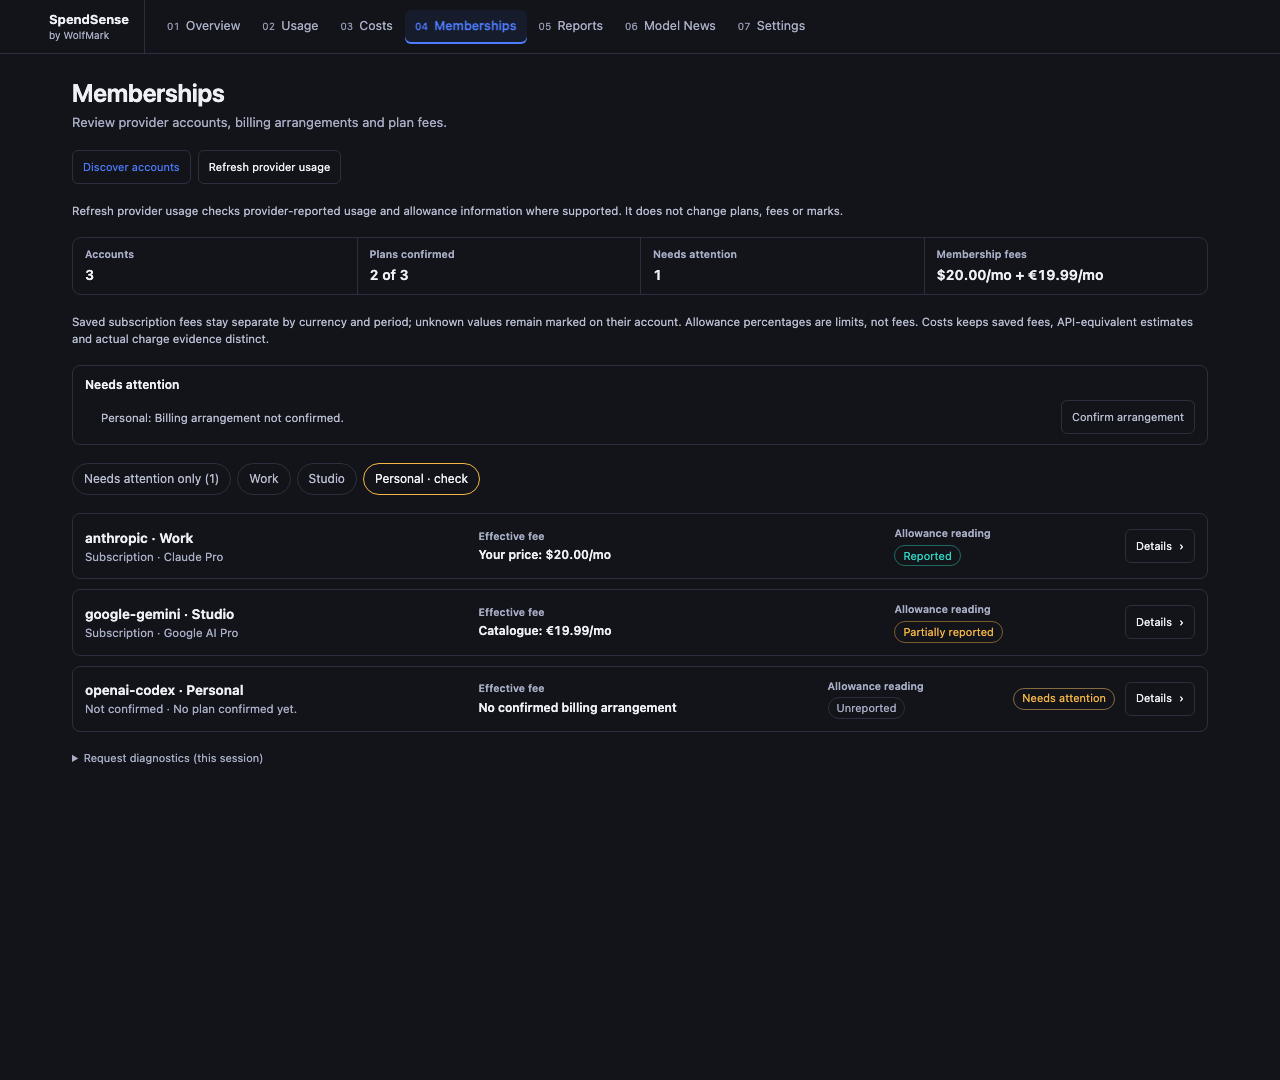
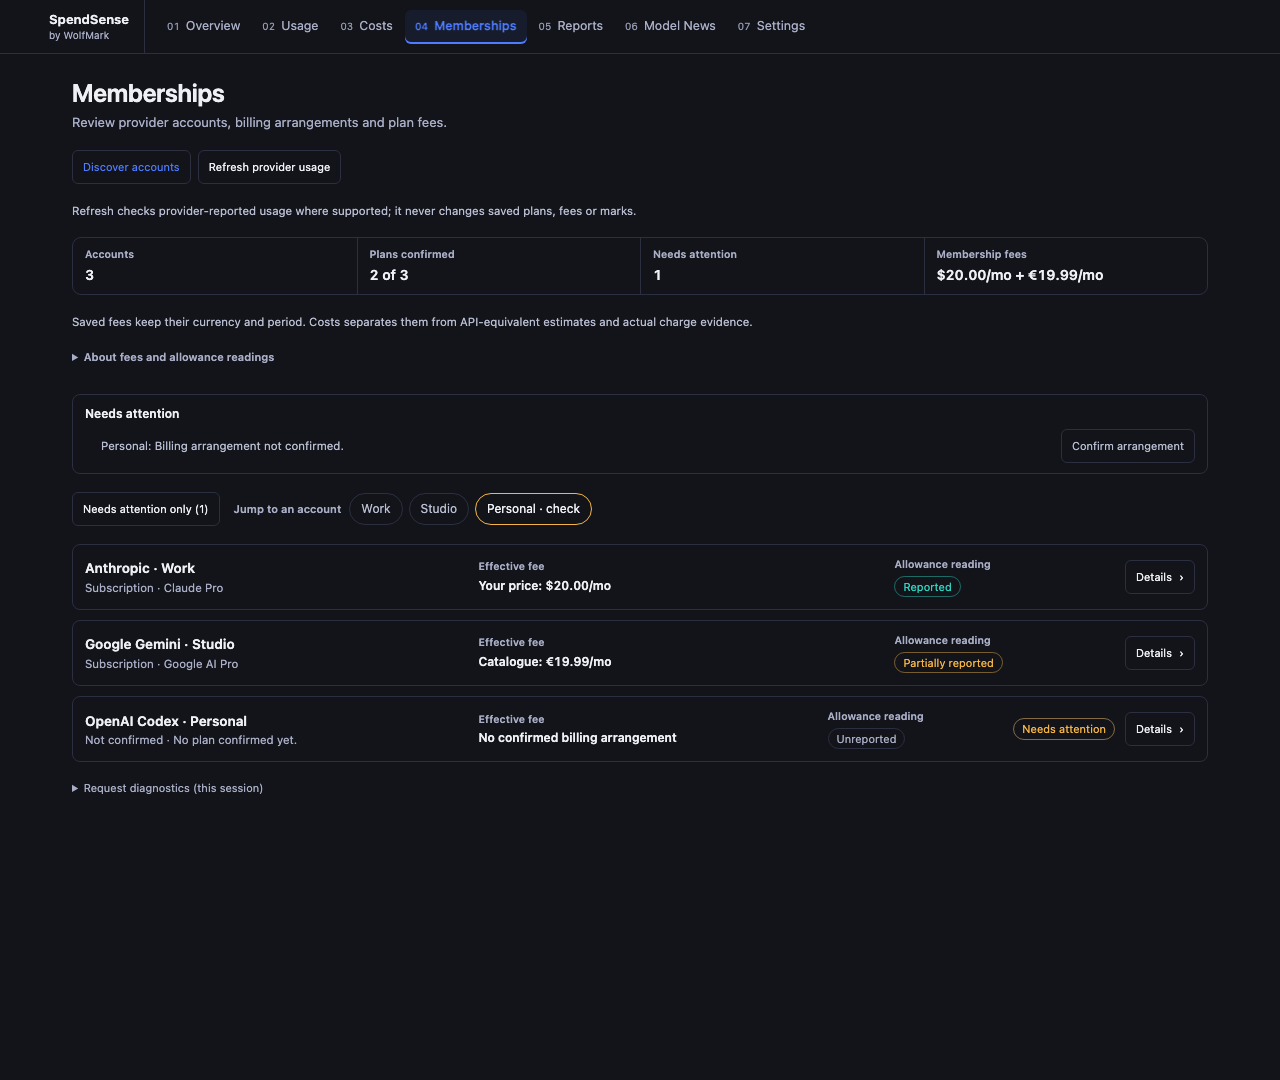
Address Memberships review refinements

diff --git a/desktop/plugin.js b/desktop/plugin.js
@@ -5295,6 +5295,9 @@ const MEMBERSHIP_CSS = `
 .wm-chip[data-state="manual"]{color:var(--ui-accent);border-color:color-mix(in srgb,var(--ui-accent) 45%,transparent)}
 .wm-chip[data-state="stale"],.wm-chip[data-state="no_data"]{color:var(--ui-text-tertiary)}
 .wm-note{margin:0;font-size:11.5px;line-height:1.5;color:var(--ui-text-secondary)}
+.wm-membership-explainer{padding:1px 0}
+.wm-membership-explainer>summary{width:fit-content;min-height:26px;display:list-item;cursor:pointer;font-weight:600}
+.wm-membership-explainer>p{margin:4px 0 0;max-width:82ch}
 .wm-accent-note{color:var(--ui-accent)}
 .wm-warn-note{color:var(--ui-warning)}
 .wm-fee-row{display:flex;align-items:center;justify-content:space-between;gap:10px;flex-wrap:wrap;
@@ -5341,6 +5344,11 @@ const MEMBERSHIP_CSS = `
 .wm-membership-summary dt,.wm-row-fact dt{font-size:10.5px;font-weight:600;color:var(--ui-text-tertiary)}
 .wm-membership-summary dd,.wm-row-fact dd{margin:0;min-width:0}
 .wm-membership-summary dd{font-size:14px;line-height:1.35;font-weight:600;color:var(--ui-text-primary);font-variant-numeric:tabular-nums;overflow-wrap:anywhere}
+.wm-memberships nav.wm-account-jump.wm-membership-account-nav{display:grid;grid-template-columns:max-content minmax(0,1fr);gap:10px 14px;align-items:center}
+.wm-membership-shortcuts{display:grid;grid-template-columns:max-content minmax(0,1fr);gap:8px;align-items:center;min-width:0}
+.wm-account-nav-label{font-size:11px;font-weight:600;color:var(--ui-text-tertiary)}
+.wm-membership-account-chips{display:flex;gap:6px;flex-wrap:wrap;min-width:0}
+.wm-membership-account-chips .wm-account-chip{max-width:100%;overflow-wrap:anywhere}
 @container(max-width:620px){.wm-membership-summary{grid-template-columns:repeat(2,minmax(0,1fr))}.wm-membership-summary>div:nth-child(odd){border-left:0}.wm-membership-summary>div:nth-child(n+3){border-top:1px solid var(--ui-stroke-secondary)}}
 @container(max-width:340px){.wm-membership-summary{grid-template-columns:minmax(0,1fr)}.wm-membership-summary>div{border-left:0;border-top:1px solid var(--ui-stroke-secondary)}.wm-membership-summary>div:first-child{border-top:0}}
 .wm-memberships .wm-cards{display:grid;grid-template-columns:minmax(0,1fr);gap:10px}
@@ -5368,6 +5376,7 @@ button[aria-expanded="true"] .wm-chev{transform:rotate(90deg)}
 .wm-group-body{display:grid;gap:8px;padding:4px 0 10px}
 @container(max-width:760px){.wm-row-head{grid-template-columns:minmax(0,1fr)}.wm-row-mid{grid-template-columns:minmax(0,1.35fr) minmax(92px,.7fr) auto auto}}
 @container(max-width:620px){.wm-row-head{align-items:start}.wm-row-mid{grid-template-columns:minmax(0,1fr) minmax(92px,auto);gap:8px 12px}.wm-row-state{grid-column:1}.wm-row-actions{grid-column:2;grid-row:2;align-self:center}.wm-row-actions .wm-button{min-height:38px}.wm-memberships .wm-seg button{min-height:38px}.wm-memberships .wm-attention li{flex-wrap:wrap}.wm-memberships .wm-attention li .wm-button{width:100%}}
+@container(max-width:620px){.wm-memberships nav.wm-account-jump.wm-membership-account-nav{grid-template-columns:minmax(0,1fr);align-items:start}.wm-membership-shortcuts{grid-template-columns:minmax(0,1fr);gap:6px}}
 @container(max-width:340px){.wm-row-mid{grid-template-columns:minmax(0,1fr)}.wm-row-state,.wm-row-actions{grid-column:1;grid-row:auto}.wm-row-actions,.wm-row-actions .wm-button{width:100%}}
 `
 
@@ -5603,7 +5612,7 @@ function quotaRows(account, now = Date.now(), t = needsAttentionEn) {
     return {
       id: window.id, label: isAccountMark ? t('memScopeAccount') : (window.label || window.id),
       scope: window.scope || 'account', accountMark: isAccountMark,
-      reading, source, reset, state, conflict: !!window.conflict,
+      reading, source, reset, state, basis: bases, conflict: !!window.conflict,
       manual: window.manual || null,
       stateLabel: state === 'live' ? t('memQuotaLive') : state === 'stale' ? t('memQuotaStale') : state === 'manual' ? t('memQuotaManual') : t('memQuotaUnrecorded')
     }
@@ -5612,7 +5621,8 @@ function quotaRows(account, now = Date.now(), t = needsAttentionEn) {
 
 function membershipReadingStatus(rows, t = needsAttentionEn) {
   const items = Array.isArray(rows) ? rows : []
-  const reported = items.filter(row => row.state === 'live' || row.state === 'stale')
+  const reported = items.filter(row => row.state === 'live' || row.state === 'stale' ||
+    (Array.isArray(row.basis) && row.basis.includes('provider_reported')))
   if (!reported.length) {
     return items.some(row => row.state === 'manual')
       ? { state: 'manual', label: t('memAllowanceManual') }
@@ -5623,6 +5633,9 @@ function membershipReadingStatus(rows, t = needsAttentionEn) {
   }
   if (reported.length < items.length) {
     return { state: 'partial', label: t('memAllowancePartial') }
+  }
+  if (items.some(row => row.state === 'manual')) {
+    return { state: 'manual', label: t('memAllowanceManual') }
   }
   return { state: 'reported', label: t('memAllowanceReported') }
 }
@@ -6216,6 +6229,24 @@ function arrangementLabel(arrangement, t) {
     : arrangement === 'prepaid' ? t('memArrPrepaid')
     : arrangement === 'api_only' ? t('memArrMetered') : t('memArrUnconfirmed')
 }
+const MEMBERSHIP_PROVIDER_LABEL_KEYS = {
+  anthropic: 'memProviderAnthropic',
+  'google-gemini': 'memProviderGoogleGemini',
+  'openai-codex': 'memProviderOpenAICodex'
+}
+function membershipProviderLabel(family, t = needsAttentionEn) {
+  const key = MEMBERSHIP_PROVIDER_LABEL_KEYS[family]
+  return key ? t(key) : family || ''
+}
+function membershipIdentityLabel(account, t = needsAttentionEn) {
+  const provider = membershipProviderLabel(account?.family, t)
+  return account?.label && account.label !== account.family
+    ? `${provider} · ${account.label}` : provider
+}
+function membershipAccountShortcutLabel(account, t = needsAttentionEn) {
+  return account?.label && account.label !== account.family
+    ? account.label : membershipProviderLabel(account?.family, t)
+}
 function MembershipCard({ account, plans, busy, onAction, draft, saveFee, catalogue, notice, weather, weatherError, hasAttention }) {
   const t = usePluginI18n(ID)
   const identity = useValue($membershipIdentity)
@@ -6398,8 +6429,7 @@ function MembershipCard({ account, plans, busy, onAction, draft, saveFee, catalo
     $membershipExpanded.set({ origin: identity,
       ids: ids.includes(account.id) ? ids.filter(id => id !== account.id) : [...ids, account.id] })
   }
-  const identityLabel = account.label && account.label !== account.family
-    ? `${account.family} · ${account.label}` : account.family
+  const identityLabel = membershipIdentityLabel(account, t)
   // API-only and prepaid accounts need no plan, so they never show the
   // "not confirmed yet" prompt. Mirrors the arrangement skip in needsAttention.
   const planName = planSaved ? (account.plan?.name || account.plan_id)
@@ -6515,7 +6545,7 @@ function MembershipCard({ account, plans, busy, onAction, draft, saveFee, catalo
         // must not block submit before the revision check runs in saveFee().
         ? jsxs('form', { className: 'wm-fee-form', noValidate: !account.rev,
             onSubmit: event => { event.preventDefault(); saveFee() }, children: [
-            jsx('h3', { children: t('memFeeTitle', account.label || account.family) }),
+            jsx('h3', { children: t('memFeeTitle', membershipAccountShortcutLabel(account, t)) }),
             notice?.tone === 'warn' && notice.accountId === account.id ? jsx('p', { role: 'alert', className: 'wm-warn-note', children: notice.text }) : null,
             jsx('p', { className: 'wm-note', children: t('memFeeRevisionNote') }),
             jsxs('fieldset', { disabled: !!busy, className: 'wm-controls wm-fee-fields', children: [
@@ -7033,7 +7063,7 @@ function MembershipsPage() {
           status: busy === 'refresh' ? 'pending' : 'idle', pendingLabel: t('memRefreshing'),
           onClick: refreshReadings, children: t('memRefresh') })
       ] }),
-      jsx('p', { className: 'wm-note',
+      jsx('p', { className: 'wm-note wm-membership-refresh-note',
         children: t('memRefreshNote') }),
       notice ? jsx('div', { className: 'wm-alert', 'data-tone': notice.tone === 'warn' ? 'warn' : 'good',
         role: 'status', children: notice.text }) : null,
@@ -7052,18 +7082,22 @@ function MembershipsPage() {
           jsxs('div', { children: [jsx('dt', { children: t('memPlansConfirmed') }),
             jsx('dd', { children: summaryValue(t('memPlansOf', summary.withPlan, summary.total)) })] }),
           jsxs('div', { children: [jsx('dt', { children: t('memNeedsAttention') }),
-            jsx('dd', { children: summaryValue(String(attention.length)) })] }),
+            jsx('dd', { children: summaryValue(String(attentionIds.size)) })] }),
           jsxs('div', { children: [jsx('dt', { children: t('memFeesLabel') }),
             jsx('dd', { children: feeSummary })] })
         ] }),
-      jsx('p', { className: 'wm-note',
-        children: t('memFeesNote') }),
+      jsx('p', { className: 'wm-note wm-membership-fee-note',
+        children: t('memFeesNoteShort') }),
+      jsxs('details', { className: 'wm-note wm-membership-explainer', children: [
+        jsx('summary', { children: t('memFeesHelp') }),
+        jsx('p', { children: t('memFeesNote') })
+      ] }),
       attention.length
         ? jsxs('section', { className: 'wm-attention', 'aria-label': t('memNeedsAttention'), children: [
             jsx('h3', { children: t('memNeedsAttention') }),
             jsxs('ul', { children: attention.slice(0, 6).map((item, index) =>
               jsxs('li', { 'data-tone': item.tone, children: [
-                jsx('span', { children: `${item.account.label || item.account.family}: ${item.text}` }),
+                jsx('span', { children: `${membershipAccountShortcutLabel(item.account, t)}: ${item.text}` }),
                 jsx(ProductButton, { type: 'button', className: 'wm-button',
                   onClick: () => queueMembershipTarget(item),
                   children: attentionActionLabel(item.issue, t) })
@@ -7080,14 +7114,19 @@ function MembershipsPage() {
         ? jsx('div', { className: 'wm-alert', role: 'alert', children: membershipErrorText(accounts.error, 'read', t) })
         : null,
       accountsReady && list.length > 1
-        ? jsxs('nav', { className: 'wm-account-jump', 'aria-label': t('memJumpToAccount'), children: [
-            jsx('button', { type: 'button', className: 'wm-account-chip', 'aria-pressed': attentionOnly,
-              onClick: () => $membershipAttentionOnly.set(!attentionOnly),
-              children: attentionOnly ? t('memShowingAttention', attentionIds.size) : t('memAttentionOnly', attentionIds.size) }),
-            ...list.map(account => jsx('button', { type: 'button', className: 'wm-account-chip',
-              'data-attention': attentionIds.has(account.id) ? 'true' : undefined,
-              onClick: () => jumpToAccount(account),
-              children: (account.label || account.family) + (attentionIds.has(account.id) ? t('memJumpCheck') : '') }, account.id))
+        ? jsxs('nav', { className: 'wm-account-jump wm-membership-account-nav', 'aria-label': t('memAccountNavigation'), children: [
+            jsx('div', { role: 'group', 'aria-label': t('memAttentionFilterLabel'), children:
+              jsx(ProductButton, { type: 'button', className: cn('wm-button', attentionOnly && 'wm-accent'), 'aria-pressed': attentionOnly,
+                onClick: () => $membershipAttentionOnly.set(!attentionOnly),
+                children: attentionOnly ? t('memShowingAttention', attentionIds.size) : t('memAttentionOnly', attentionIds.size) })
+            }),
+            jsxs('div', { className: 'wm-membership-shortcuts', role: 'group', 'aria-label': t('memJumpToAccount'), children: [
+              jsx('span', { className: 'wm-account-nav-label', children: t('memJumpToAccount') }),
+              jsxs('div', { className: 'wm-membership-account-chips', children: list.map(account => jsx('button', { type: 'button', className: 'wm-account-chip',
+                'data-attention': attentionIds.has(account.id) ? 'true' : undefined,
+                onClick: () => jumpToAccount(account),
+                children: membershipAccountShortcutLabel(account, t) + (attentionIds.has(account.id) ? t('memJumpCheck') : '') }, account.id)) })
+            ] })
           ] })
         : null,
       jsxs('div', { className: 'wm-cards', children:
@@ -8090,9 +8129,11 @@ const I18N = {
     memBillingTypeFor: account => `Billing type for ${account}`,
     memBillingTip: 'Subscription: a recurring fee you declare. Prepaid credits: top-ups, not a recurring fee. Metered API: pay-as-you-go, no recurring fee. Usage is always tracked.',
     memRefresh: 'Refresh provider usage',
-    memRefreshNote: 'Refresh provider usage checks provider-reported usage and allowance information where supported. It does not change plans, fees or marks.',
+    memRefreshNote: 'Refresh checks provider-reported usage where supported; it never changes saved plans, fees or marks.',
     memFeesLabel: 'Membership fees',
     memFeesNotRecorded: 'No fee amount recorded',
+    memFeesNoteShort: 'Saved fees keep their currency and period. Costs separates them from API-equivalent estimates and actual charge evidence.',
+    memFeesHelp: 'About fees and allowance readings',
     memFeesNote: 'Saved subscription fees stay separate by currency and period; unknown values remain marked on their account. Allowance percentages are limits, not fees. Costs keeps saved fees, API-equivalent estimates and actual charge evidence distinct.',
     memAccountId: id => `Account ID: ${id}`,
     // Memberships labels (previously literal English, never translated).
@@ -8104,9 +8145,14 @@ const I18N = {
     memReading: 'Reading memberships for this connection…',
     memBackendNotes: 'Backend notes',
     memJumpToAccount: 'Jump to an account',
+    memAccountNavigation: 'Account navigation',
+    memAttentionFilterLabel: 'Filter accounts by attention',
     memShowingAttention: n => `Showing needs attention (${n}) — show all`,
     memAttentionOnly: n => `Needs attention only (${n})`,
     memJumpCheck: ' · check',
+    memProviderAnthropic: 'Anthropic',
+    memProviderGoogleGemini: 'Google Gemini',
+    memProviderOpenAICodex: 'OpenAI Codex',
     memDiagnostics: 'Request diagnostics (this session)',
     memSaved: 'Saved.',
     memSavedRereadFailed: error => `Saved, but the list could not be re-read. ${error}`,
@@ -9249,9 +9295,11 @@ const I18N = {
     memBillingTypeFor: account => `${account} 的账单类型`,
     memBillingTip: '订阅：您申报的周期性费用。预付额度：充值，非周期性费用。按量 API：按用量付费，无周期性费用。用量始终会被跟踪。',
     memRefresh: '刷新服务商用量',
-    memRefreshNote: '刷新服务商用量会检查支持的服务商上报用量与额度信息。不会更改方案、费用或标记。',
+    memRefreshNote: '在服务商支持时刷新其上报用量；不会更改已保存的方案、费用或标记。',
     memFeesLabel: '会员费用',
     memFeesNotRecorded: '未记录费用金额',
+    memFeesNoteShort: '已保存费用保留币种和周期。“成本”会将其与 API 等效估值及实际账单凭据分开显示。',
+    memFeesHelp: '关于费用与额度读数',
     memFeesNote: '已保存订阅费用按币种与账单周期分列；未知金额会标记在对应账户上。额度百分比是限制，不是费用。“成本”会将已保存费用、API 等效用量估值与实际账单凭据分开显示。',
     memAccountId: id => `账户 ID：${id}`,
     // 会员标签（之前是英文原文，从不翻译）。
@@ -9263,9 +9311,14 @@ const I18N = {
     memReading: '正在读取该连接的会员……',
     memBackendNotes: '后端备注',
     memJumpToAccount: '跳转到账户',
+    memAccountNavigation: '账户导航',
+    memAttentionFilterLabel: '按关注状态筛选账户',
     memShowingAttention: n => `仅显示需关注（${n}）——显示全部`,
     memAttentionOnly: n => `仅需关注（${n}）`,
     memJumpCheck: ' · 待看',
+    memProviderAnthropic: 'Anthropic 服务',
+    memProviderGoogleGemini: 'Google Gemini 服务',
+    memProviderOpenAICodex: 'OpenAI Codex 服务',
     memDiagnostics: '请求诊断信息（本次会话）',
     memSaved: '已保存。',
     memSavedRereadFailed: error => `已保存，但列表无法重新读取。${error}`,
@@ -10277,6 +10330,7 @@ export const __test = {
   $membershipScope, $membershipSnapshot, $membershipNotice,
   $membershipBusy, $membershipNative, $membershipAttentionOnly, $membershipDraft, $scopeConnection, $scopeProfile,
   fmtMoney, feeLabel, quotaRows, membershipReadingStatus, needsAttention, membershipSummary, feesLabel, accountPlanChoices,
+  membershipProviderLabel, membershipIdentityLabel, membershipAccountShortcutLabel,
   excludedPlansNote, planOptionLabel,
   proposalText, feeDraft, feeDraftErrors, ACCOUNT_SCOPE, accountHolderMarked, overrideFromDraft, feeReasons, feeCurrencies,
   OVERRIDE_REASON_FALLBACK, REASON_LABELS, restoreCatalogueFee, MembershipsPage, MembershipCard, MEMBERSHIP_CSS,

diff --git a/test/memberships-layout.page.jsx b/test/memberships-layout.page.jsx
@@ -136,6 +136,8 @@ try {
           const feesText = summary.lastElementChild?.querySelector('dd')?.textContent || ''
           out.containers[width] = {
             columns: cols,
+            accountNavColumns: getComputedStyle(host.querySelector('.wm-membership-account-nav')).gridTemplateColumns.split(' ').filter(Boolean).length,
+            jumpLabel: host.querySelector('.wm-account-nav-label')?.textContent || '',
             feesText,
             hasLongFee: feesText.includes('1234567.89'),
             hasMixedCurrencies: feesText.includes('$') && feesText.includes('£'),
